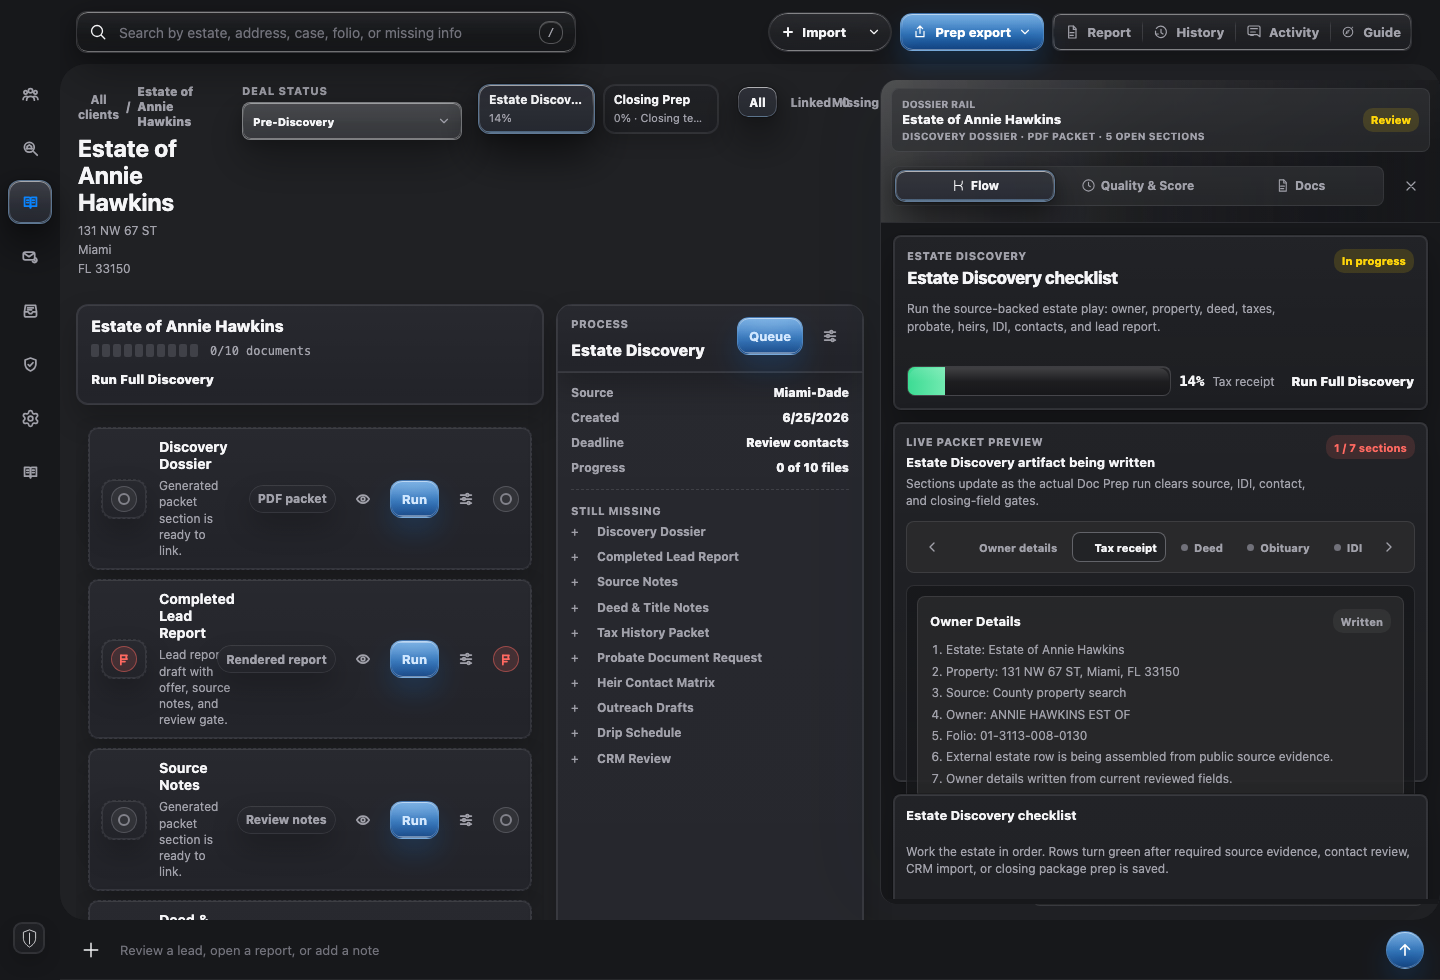
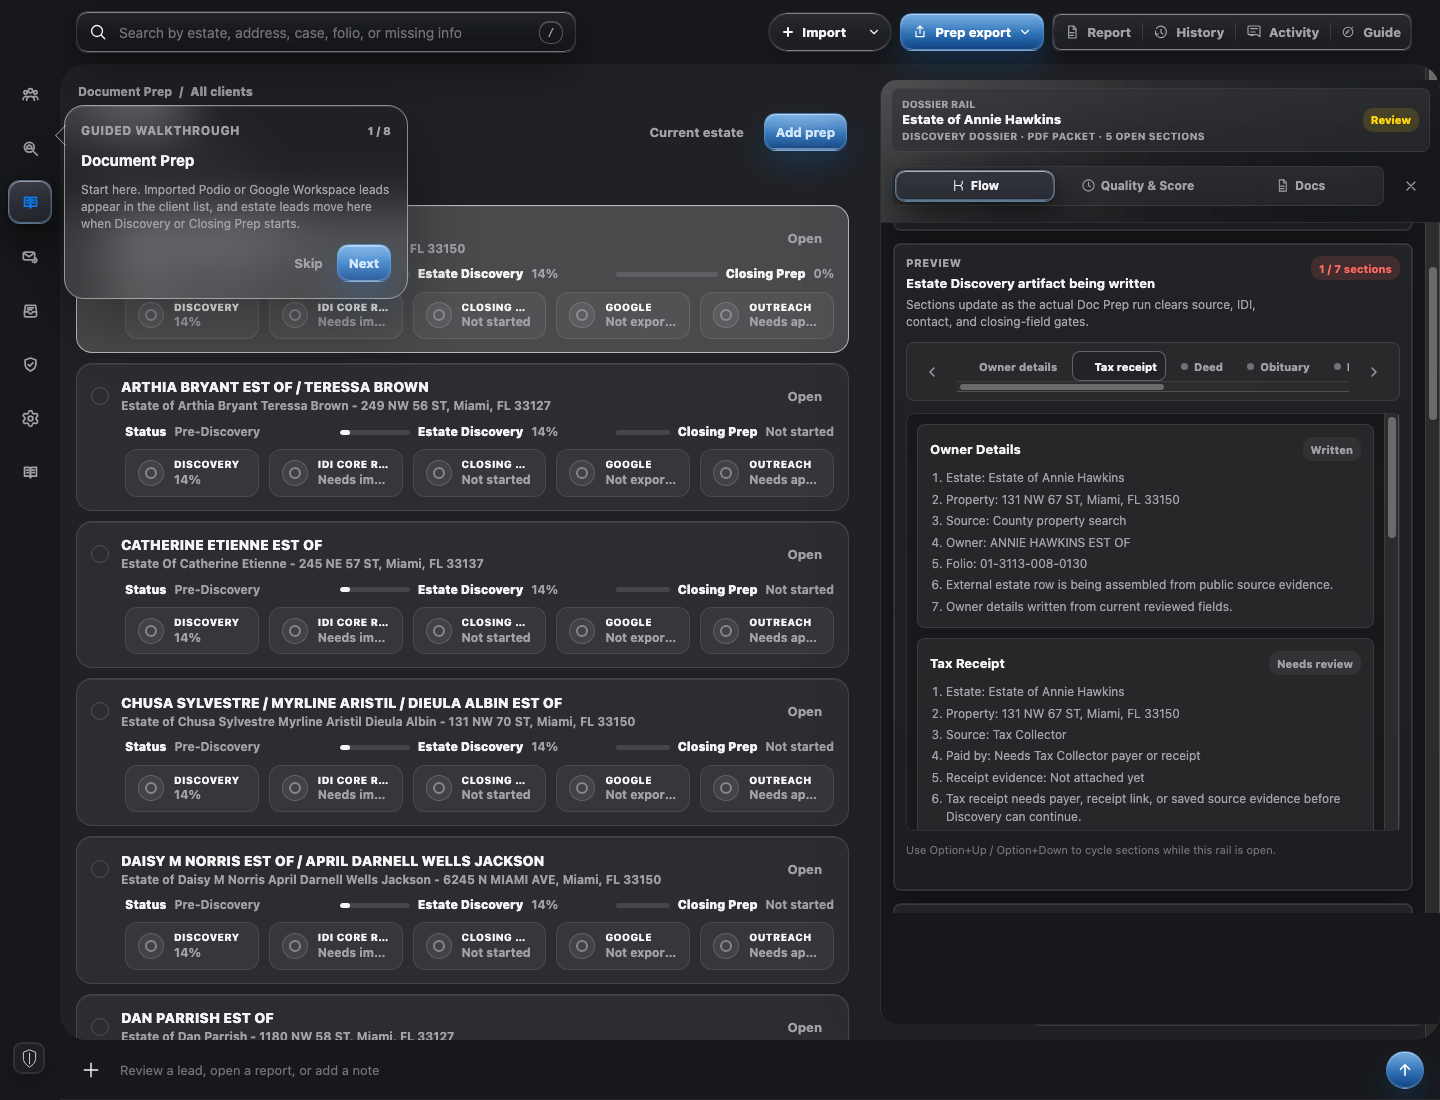
Fix Doc Prep preview containment

diff --git a/probate-lead-engine/apps/artifact/src/index.html b/probate-lead-engine/apps/artifact/src/index.html
@@ -3766,10 +3766,12 @@
     }
 
     .docprep-artifact-stream {
+      --artifact-preview-height: clamp(220px, 38vh, 480px);
       gap: 12px;
-      min-height: 360px;
+      grid-template-rows: auto auto var(--artifact-preview-height) auto;
+      min-height: calc(var(--artifact-preview-height) + 230px);
       align-content: start;
-      overflow: visible;
+      overflow: hidden;
     }
 
     .artifact-stream-head {
@@ -3875,7 +3877,9 @@
     }
 
     .artifact-stream-document {
-      max-height: min(58vh, 560px);
+      min-height: 220px;
+      height: var(--artifact-preview-height);
+      max-height: none;
       overflow: auto;
       display: grid;
       gap: 10px;
@@ -6976,10 +6980,10 @@
     }
 
     .rail-card.docprep-artifact-stream {
-      min-height: 360px;
+      min-height: calc(var(--artifact-preview-height) + 230px);
       align-content: start;
       gap: 12px;
-      overflow: visible;
+      overflow: hidden;
     }
 
     .rail-card.docprep-artifact-stream .artifact-stream-document {
@@ -14782,7 +14786,7 @@ function docPrepStreamPanelHtml(row = selectedRow(), dossier = dossierForRow(row
     <section class="glass-card rail-card docprep-artifact-stream" data-docprep-stream="${escapeHtml(key)}" data-docprep-stream-flow="${escapeHtml(flow.id)}">
       <div class="artifact-stream-head">
         <div>
-          <p class="eyebrow">Live packet preview</p>
+          <p class="eyebrow">Preview</p>
           <h3>${escapeHtml(flow.shortTitle)} artifact ${complete ? "ready for review" : "being written"}</h3>
           <p class="copy">${escapeHtml(stream.summary || "Sections update as the actual Doc Prep run clears source, IDI, contact, and closing-field gates.")}</p>
         </div>

diff --git a/docs/s30-progress.md b/docs/s30-progress.md
@@ -25,7 +25,8 @@ Make Doc Prep visibly stream real Discovery and Closing Prep packet sections, ad
 - In-app browser proof: Closing Prep streamed, blocked correctly on missing required fields, then completed after the remaining fields were entered through UI controls.
 - Generated packet proof in browser: Discovery reached 7/7 stream sections and 10/10 linked documents; Closing Prep reached 5/5 stream sections and 20/20 linked documents.
 - Post-fix fresh Chrome/DevTools proof loaded the rebuilt app with the corrected stream CSS and captured clean desktop/mobile screenshots: `docs/evidence/s30-docprep-stream-desktop.png`, `docs/evidence/s30-docprep-stream-mobile.png`, and `docs/evidence/s30-docprep-stream-proof.json`.
-- Post-fix metrics: desktop stream panel 535x360 with 509x220 scrollable document pane, mobile stream panel 392x725 with 366x490 scrollable document pane, no horizontal overflow on either viewport.
+- Preview containment polish: renamed the rail header to `Preview`, gave the stream card a real document-pane row, and verified the stream no longer bleeds past its container.
+- Post-fix metrics: desktop stream panel 520x648 with 494x418 scrollable document pane; mobile stream panel 392x577 with 366x342 scrollable document pane; every direct preview child is contained and the page has no horizontal overflow on either viewport.
 
 ## Review Notes
 - Stream card clipping found during screenshot proof and fixed in source plus rebuilt artifact.
